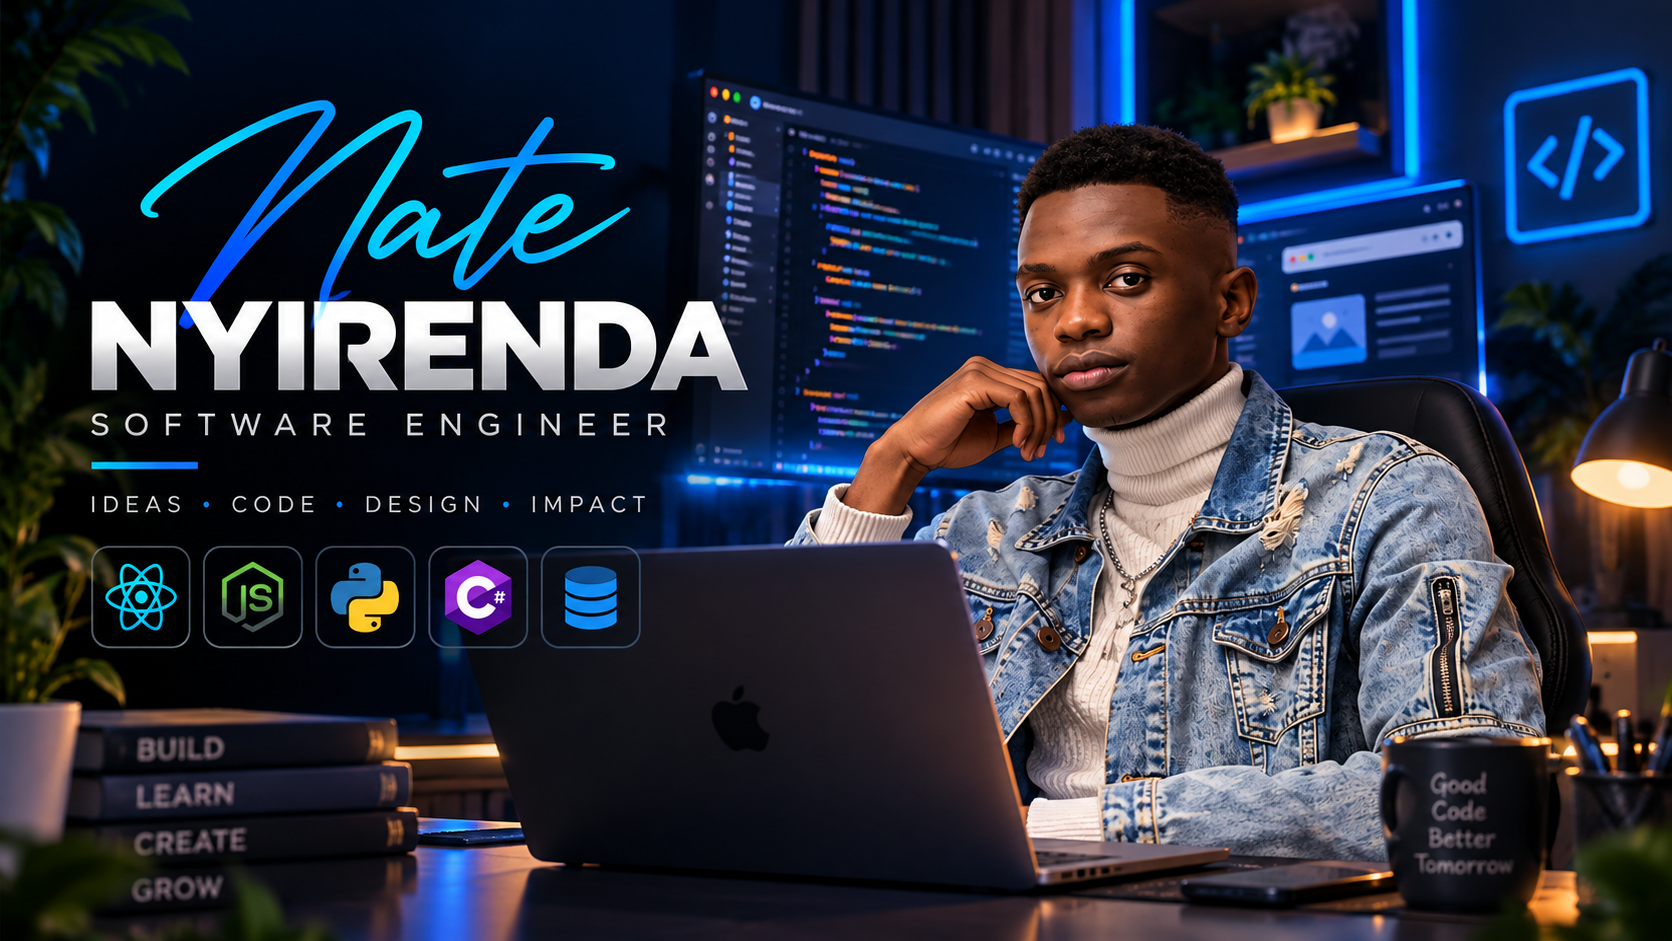
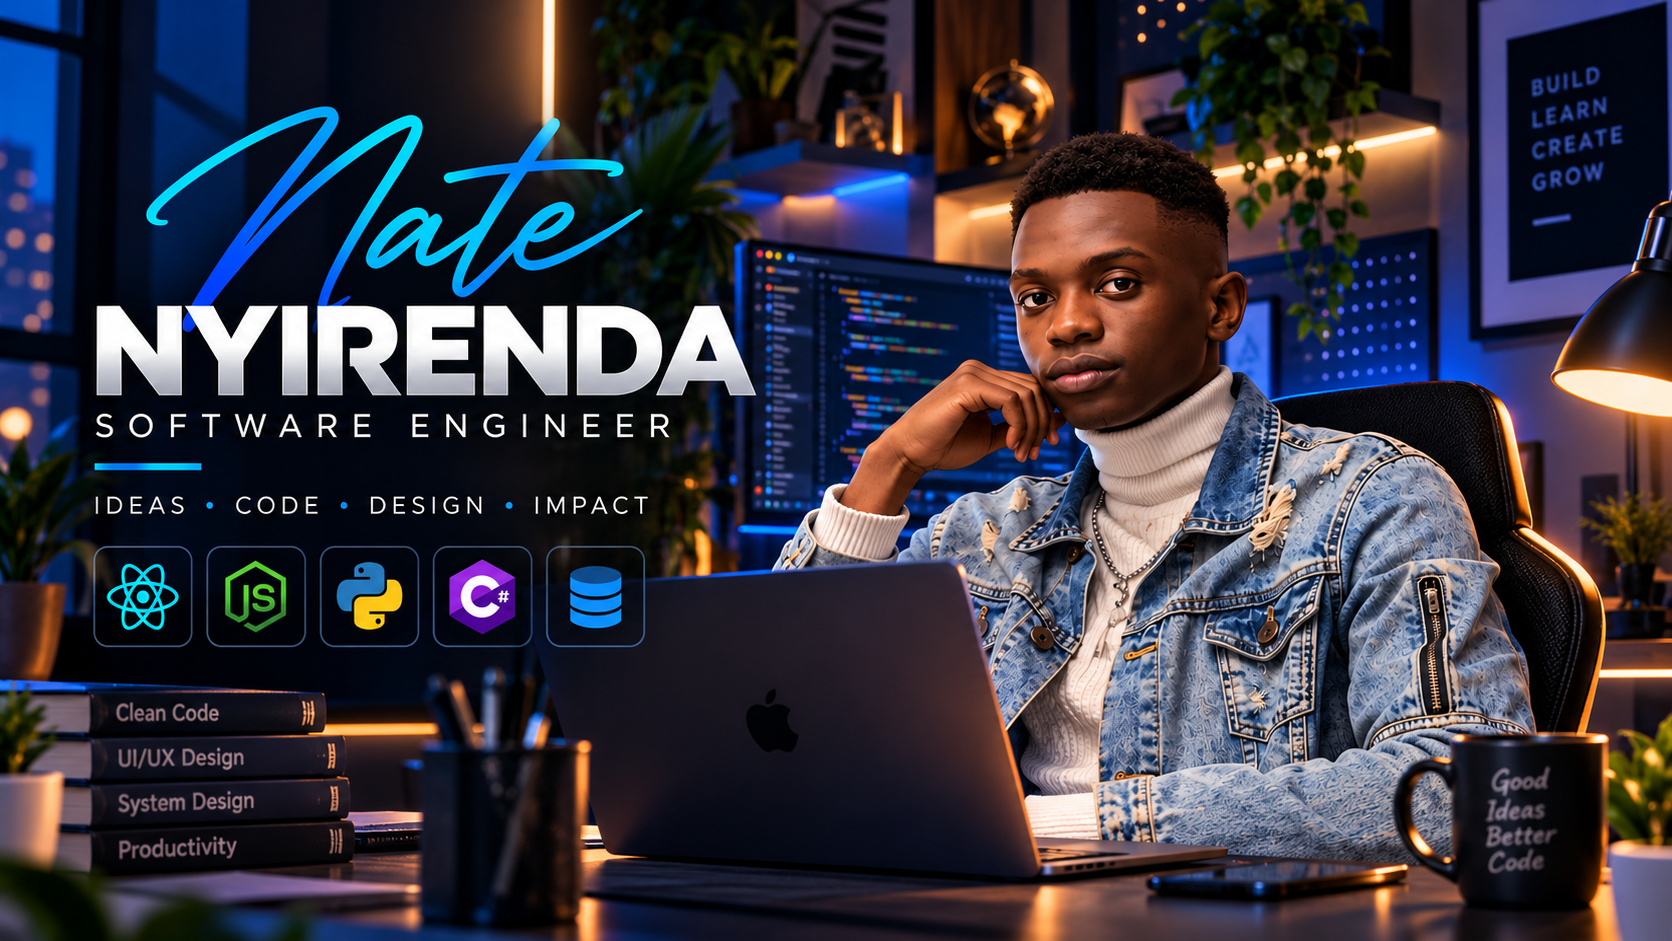
Update social thumbnail and version link preview image (#14)

diff --git a/index.html b/index.html
@@ -1,2 +1,2 @@
 <!doctype html>
-<html lang="en"><head><meta charset="UTF-8"/><meta name="referrer" content="no-referrer"/><meta name="viewport" content="width=device-width, initial-scale=1.0"/><meta name="theme-color" content="#090b11"/><meta name="description" content="Portfolio of a KNRTU graduate working in software engineering, systems administration, and design."/><meta property="og:title" content="Nathanael Nyirenda - portfolio"/><meta property="og:description" content="Software, systems, and everything in between."/><meta property="og:type" content="website"/><meta property="og:url" content="https://nate-zm.github.io/Portfolio/"/><meta property="og:image" content="https://nate-zm.github.io/Portfolio/thumbnail.png?v=1"/><meta property="og:image:type" content="image/png"/><meta property="og:image:width" content="1672"/><meta property="og:image:height" content="941"/><meta property="og:image:alt" content="Nate Nyirenda, software engineer — ideas, code, design, and impact."/><meta property="og:site_name" content="Nathanael Nyirenda - Portfolio"/><meta name="twitter:title" content="Nathanael Nyirenda - portfolio"/><meta name="twitter:description" content="Software, systems, and everything in between."/><meta name="twitter:card" content="summary_large_image"/><meta name="twitter:image" content="https://nate-zm.github.io/Portfolio/thumbnail.png?v=1"/><meta name="twitter:image:alt" content="Nate Nyirenda, software engineer — ideas, code, design, and impact."/><link rel="icon" href="./favicon.svg"/><title>Nathanael Nyirenda - portfolio</title><script>try{const saved=localStorage.getItem('theme');document.documentElement.dataset.theme=saved==='light'||saved==='dark'?saved:(matchMedia('(prefers-color-scheme: light)').matches?'light':'dark')}catch{document.documentElement.dataset.theme='dark'}</script></head><body><div id="root"></div><noscript><p>This portfolio needs JavaScript. <a href="./assets/Nathanael%20Nyirenda%20CV.pdf?v=7d297cbb4074" download>Download CV for Nathanael Nyirenda (PDF)</a> or <a href="mailto:n8.vision.00@gmail.com">contact the owner</a>.</p></noscript><script type="module" src="/src/main.tsx"></script></body></html>
+<html lang="en"><head><meta charset="UTF-8"/><meta name="referrer" content="no-referrer"/><meta name="viewport" content="width=device-width, initial-scale=1.0"/><meta name="theme-color" content="#090b11"/><meta name="description" content="Portfolio of a KNRTU graduate working in software engineering, systems administration, and design."/><meta property="og:title" content="Nathanael Nyirenda - portfolio"/><meta property="og:description" content="Software, systems, and everything in between."/><meta property="og:type" content="website"/><meta property="og:url" content="https://nate-zm.github.io/Portfolio/"/><meta property="og:image" content="https://nate-zm.github.io/Portfolio/thumbnail.png?v=84d40c407d82"/><meta property="og:image:type" content="image/png"/><meta property="og:image:width" content="1672"/><meta property="og:image:height" content="941"/><meta property="og:image:alt" content="Nate Nyirenda, software engineer — ideas, code, design, and impact."/><meta property="og:site_name" content="Nathanael Nyirenda - Portfolio"/><meta name="twitter:title" content="Nathanael Nyirenda - portfolio"/><meta name="twitter:description" content="Software, systems, and everything in between."/><meta name="twitter:card" content="summary_large_image"/><meta name="twitter:image" content="https://nate-zm.github.io/Portfolio/thumbnail.png?v=84d40c407d82"/><meta name="twitter:image:alt" content="Nate Nyirenda, software engineer — ideas, code, design, and impact."/><link rel="icon" href="./favicon.svg"/><title>Nathanael Nyirenda - portfolio</title><script>try{const saved=localStorage.getItem('theme');document.documentElement.dataset.theme=saved==='light'||saved==='dark'?saved:(matchMedia('(prefers-color-scheme: light)').matches?'light':'dark')}catch{document.documentElement.dataset.theme='dark'}</script></head><body><div id="root"></div><noscript><p>This portfolio needs JavaScript. <a href="./assets/Nathanael%20Nyirenda%20CV.pdf?v=7d297cbb4074" download>Download CV for Nathanael Nyirenda (PDF)</a> or <a href="mailto:n8.vision.00@gmail.com">contact the owner</a>.</p></noscript><script type="module" src="/src/main.tsx"></script></body></html>
